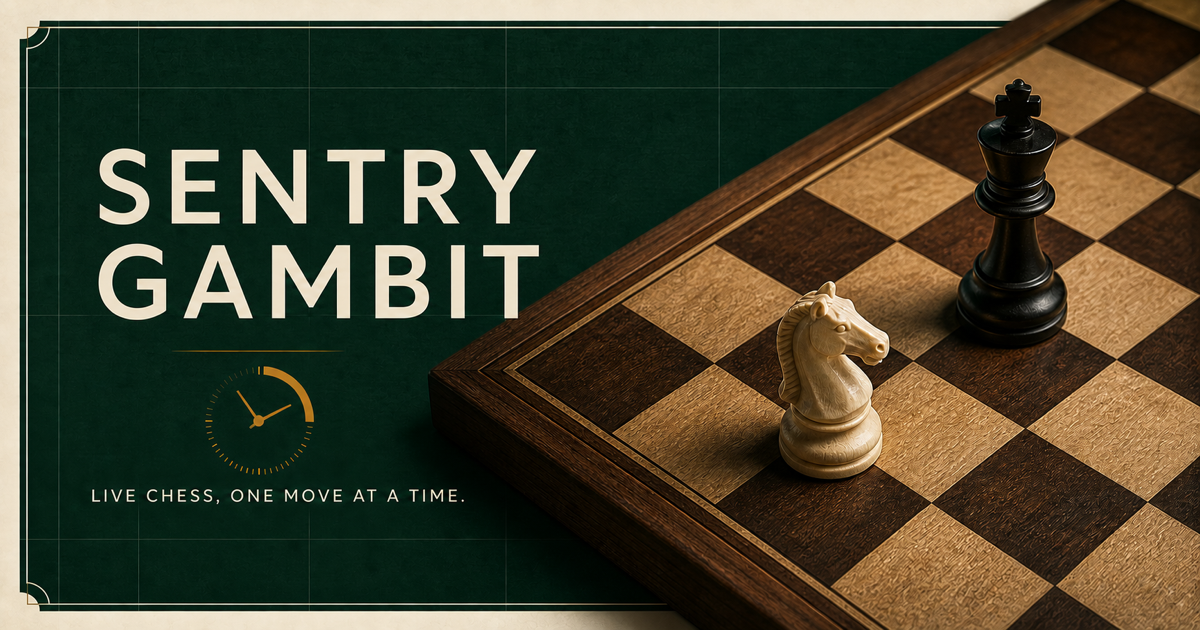
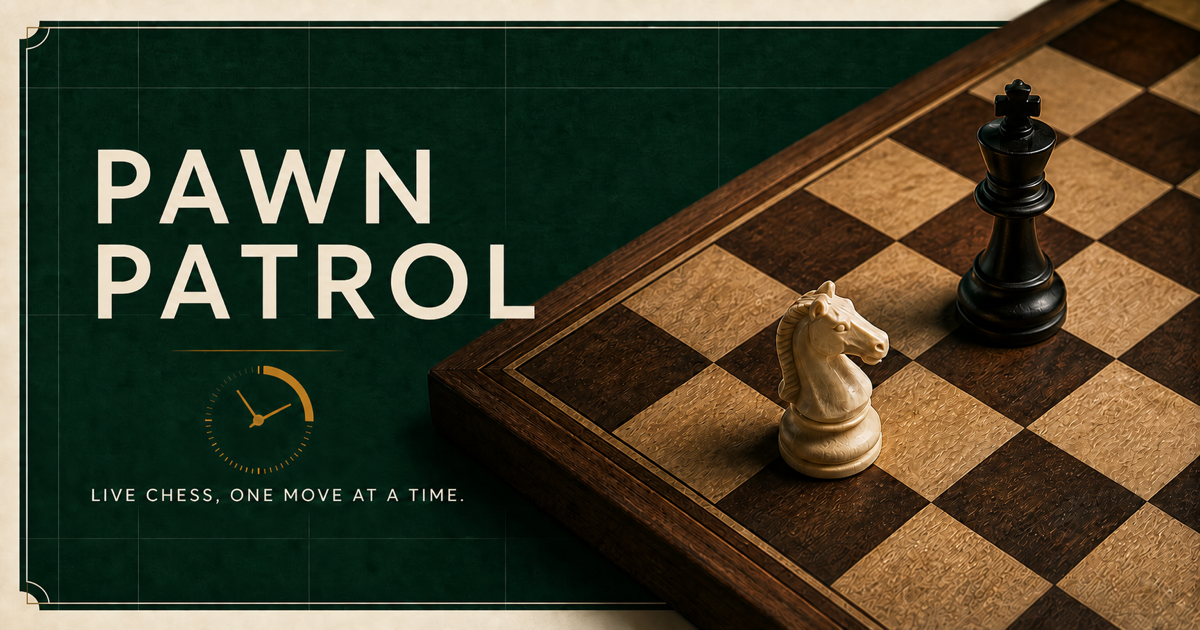
big commit

diff --git a/app/ChessRoom.tsx b/app/ChessRoom.tsx
@@ -16,6 +16,7 @@ type ClockState = {
 
 type GameState = {
   room: string;
+  gameId: string;
   fen: string;
   history: ReviewMove[];
   players: { w: string | null; b: string | null };
@@ -128,13 +129,37 @@ export function ChessRoom() {
   const [promotion, setPromotion] = useState<{ from: Square; to: Square; color: Color } | null>(null);
   const [notice, setNotice] = useState("");
   const [copied, setCopied] = useState(false);
-  const analysis = useMoveAnalysis(room, state?.history ?? [], Boolean(state?.result));
+  const reportedGradesRef = useRef(new Set<string>());
 
   const send = useCallback((payload: object) => {
     if (socketRef.current?.readyState === WebSocket.OPEN) {
       socketRef.current.send(JSON.stringify(payload));
+      return true;
     }
+    return false;
   }, []);
+
+  const analysis = useMoveAnalysis(state?.gameId ?? room, state?.history ?? [], Boolean(state?.result));
+
+  useEffect(() => {
+    if (!state?.result || connection !== "online") return;
+
+    analysis.moves.forEach((reviewed, index) => {
+      if (!reviewed) return;
+      const ply = index + 1;
+      const reportKey = `${state.gameId}:${ply}`;
+      if (reportedGradesRef.current.has(reportKey)) return;
+
+      const sent = send({
+        type: "move_grade",
+        gameId: state.gameId,
+        ply,
+        grade: reviewed.grade,
+        expectedPointsLoss: reviewed.expectedPointsLoss,
+      });
+      if (sent) reportedGradesRef.current.add(reportKey);
+    });
+  }, [analysis.moves, connection, send, state?.gameId, state?.result]);
 
   const flagClock = useCallback(() => send({ type: "flag" }), [send]);
   const now = useClock(state?.clock ?? null, flagClock);
@@ -273,9 +298,9 @@ export function ChessRoom() {
   return (
     <main className="app-shell">
       <header className="topbar">
-        <Link className="brand" href="/" aria-label="Sentry Gambit home">
+        <Link className="brand" href="/" aria-label="Pawn Patrol home">
           <span className="brand-mark">♞</span>
-          <span>SENTRY <em>GAMBIT</em></span>
+          <span>PAWN <em>PATROL</em></span>
         </Link>
         <div className="topbar-note"><span className="live-dot" /> LIVE TABLES · RAPID 10</div>
         <button className="text-button" onClick={() => { socketRef.current?.close(); setConnection("idle"); setRoom(""); setState(null); window.history.replaceState({}, "", "/"); }}>New table</button>
@@ -422,7 +447,7 @@ export function ChessRoom() {
       </section>
 
       <footer>
-        <span>SENTRY GAMBIT · EST. 2026</span>
+        <span>PAWN PATROL · EST. 2026</span>
         <span>PRIVATE ROOMS · REAL-TIME PLAY · NO SIGN-UP</span>
       </footer>
     </main>

diff --git a/app/layout.tsx b/app/layout.tsx
@@ -23,19 +23,19 @@ export async function generateMetadata(): Promise<Metadata> {
   return {
     metadataBase: base,
     title: {
-      default: "Sentry Gambit — Live chess",
-      template: "%s · Sentry Gambit",
+      default: "Pawn Patrol — Live chess",
+      template: "%s · Pawn Patrol",
     },
     description: "Start a private chess table, share the code, and play live.",
     icons: { icon: "/favicon.svg", shortcut: "/favicon.svg" },
     openGraph: {
-      title: "Sentry Gambit",
+      title: "Pawn Patrol",
       description: "Live chess, one move at a time.",
       images: [{ url: socialImage, width: 1200, height: 630 }],
     },
     twitter: {
       card: "summary_large_image",
-      title: "Sentry Gambit",
+      title: "Pawn Patrol",
       description: "Live chess, one move at a time.",
       images: [socialImage],
     },

diff --git a/app/page.tsx b/app/page.tsx
@@ -2,7 +2,7 @@ import type { Metadata } from "next";
 import { ChessRoom } from "./ChessRoom";
 
 export const metadata: Metadata = {
-  title: "Sentry Gambit — Live chess",
+  title: "Pawn Patrol — Live chess",
   description: "Start a private chess table, share the code, and play live.",
 };
 

diff --git a/README.md b/README.md
@@ -1,4 +1,4 @@
-# Sentry Gambit
+# Pawn Patrol
 
 Live chess with private tables and shared clocks. Next.js frontend plus a Node
 WebSocket server (`server.mjs`) that keeps each game's board, clocks, and
@@ -29,9 +29,9 @@ in this project — the default build service account is denied by org policy):
 ```bash
 gcloud auth configure-docker us-west1-docker.pkg.dev
 docker buildx build --platform linux/amd64 \
-  -t us-west1-docker.pkg.dev/devinfra-remote-dev/cloud-run-source-deploy/sentry-gambit:latest --push .
-gcloud run deploy sentry-gambit \
-  --image us-west1-docker.pkg.dev/devinfra-remote-dev/cloud-run-source-deploy/sentry-gambit:latest \
+  -t us-west1-docker.pkg.dev/devinfra-remote-dev/cloud-run-source-deploy/pawn-patrol:latest --push .
+gcloud run deploy pawn-patrol \
+  --image us-west1-docker.pkg.dev/devinfra-remote-dev/cloud-run-source-deploy/pawn-patrol:latest \
   --project devinfra-remote-dev \
   --region us-west1 \
   --allow-unauthenticated \
@@ -46,13 +46,18 @@ clients reconnect automatically on the same room code.
 ## Sentry Move Logs
 
 The Node server sends one structured `chess.move.accepted` Sentry log for every
-accepted move. Logging is disabled automatically when no DSN is configured.
+accepted move. Once the game ends, the browser sends each local Stockfish
+classification back to the server, which emits a corresponding
+`chess.move.graded` log. Grade reports from multiple browsers are deduplicated
+by game ID and ply. Logging is disabled automatically when no DSN is
+configured.
 
 Set these Cloud Run environment variables:
 
 - `SENTRY_DSN` — the DSN for the Sentry project that should receive move logs
 - `SENTRY_ENVIRONMENT` — optional; falls back to `NODE_ENV`
 
-Move logs include the room code, ply and move numbers, color, SAN and UCI
-notation, resulting FEN, remaining clock time, and whether the move ended the
-game. Player names are not sent.
+Move logs include the room code, game ID, ply and move numbers, color, SAN and
+UCI notation, resulting FEN, remaining clock time, and whether the move ended
+the game. Grade logs add the Stockfish grade and expected-points loss. Player
+names are not sent.
